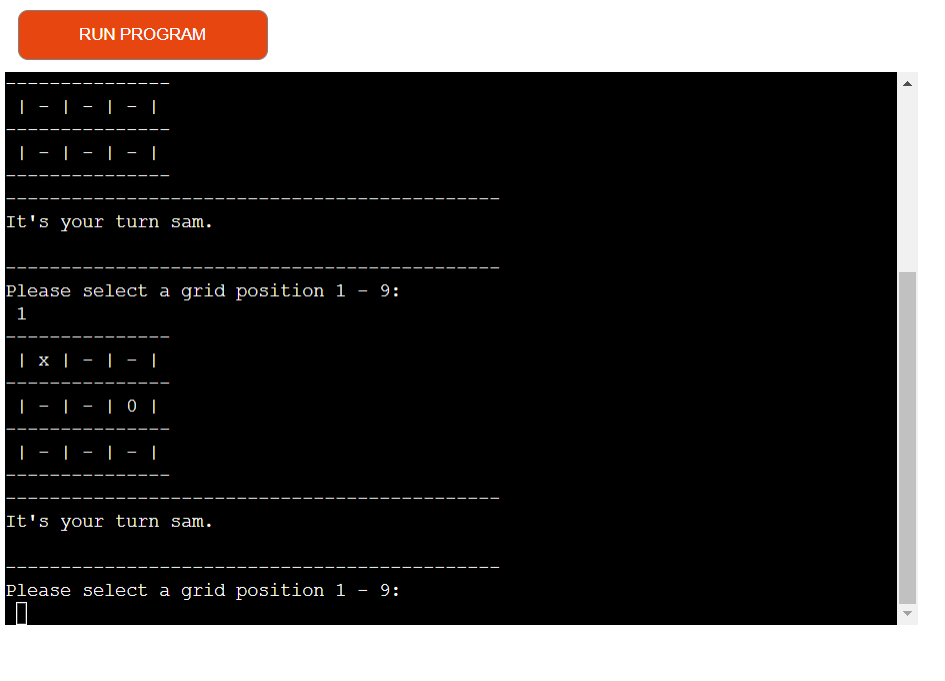
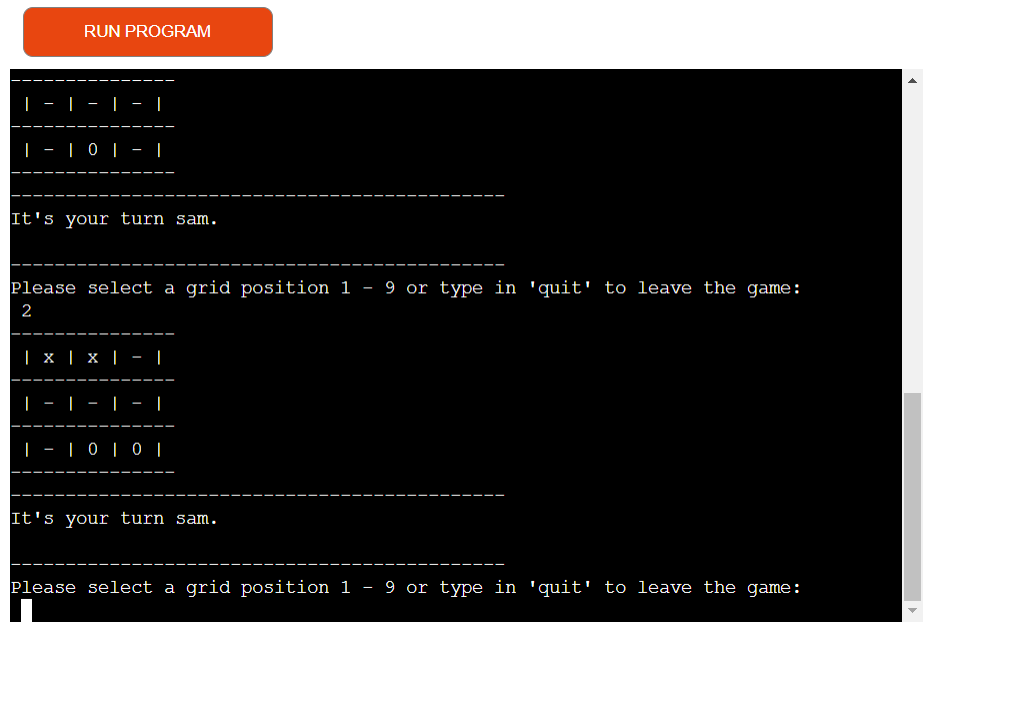
Change all screenshots in features part of readme to now show how the game runs in the heroku terminal

Changed region(s): [[0.0, 0.0, 0.982, 0.9251]]

diff --git a/README.md b/README.md
@@ -43,7 +43,7 @@ The user will also be asked to enter their name.
 
 Once the user has entered their name, another welcome message will appear and print out the game board.
 
-The console will inform the user that it's their turn and ask them to select a grid position between 1 and 9. This must be a whole number between 1 and 9 entered as an integer.
+The console will inform the user that it's their turn and ask them to select a grid position between 1 and 9 or type in 'quit' to leave the game. This must be a whole number between 1 and 9 entered as an integer.
 
 ![Start game screenshot](assets/screenshots/start-game-screenshot.png)
 
